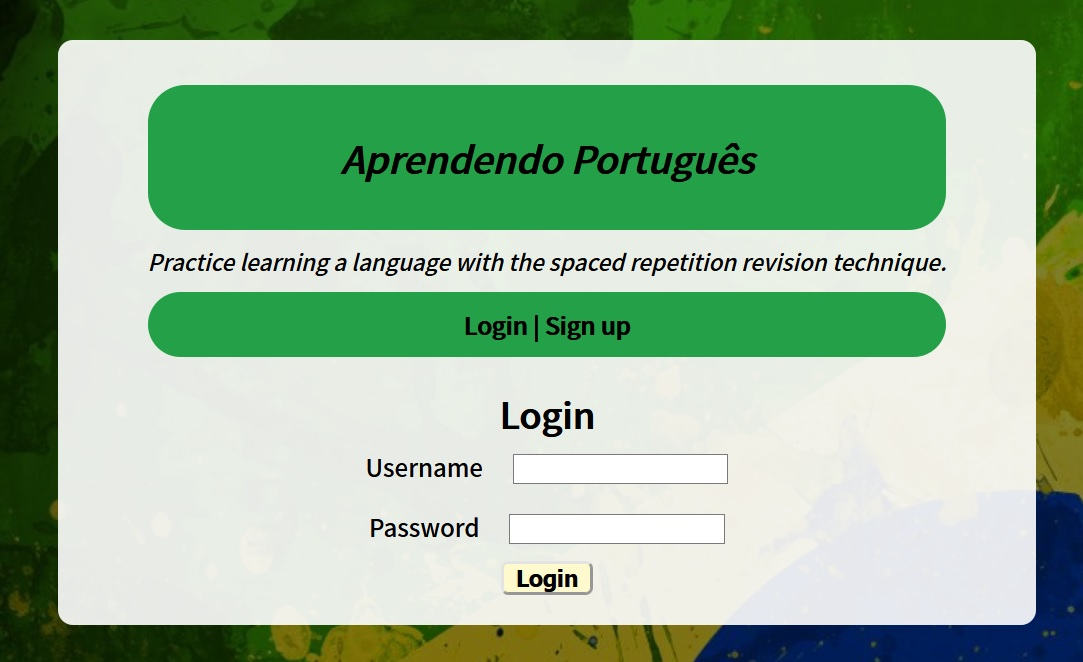
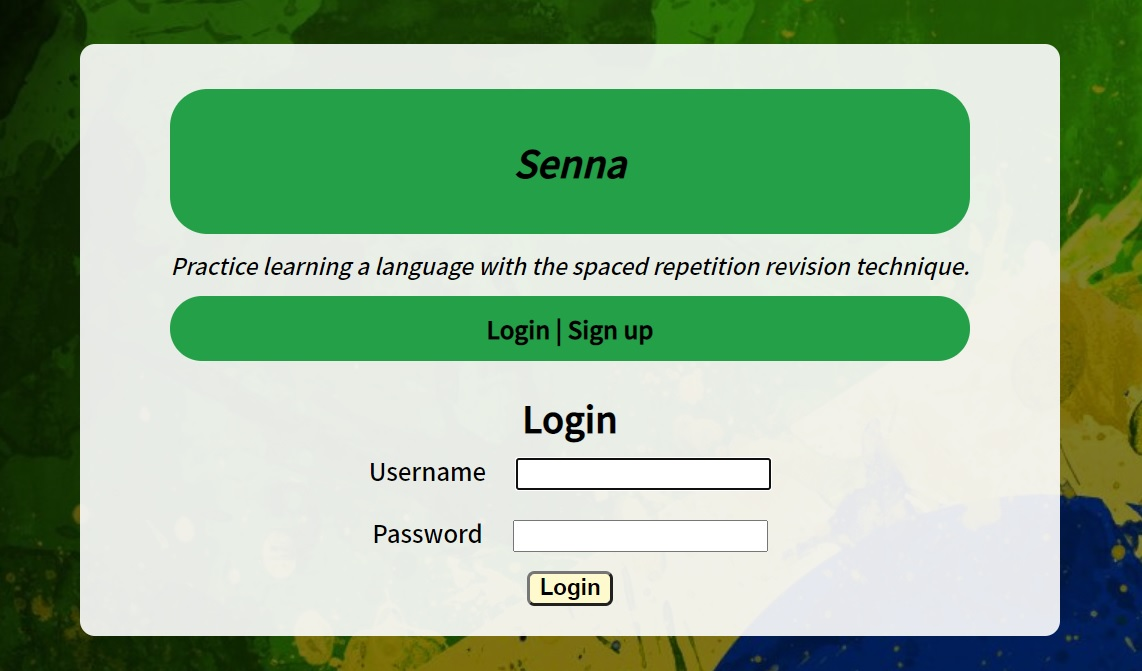
updated pictures

diff --git a/README.md b/README.md
@@ -1,5 +1,5 @@
 #  Senna
-By Renata.
+By Renata D.
 
 ## The Project
 
@@ -9,7 +9,7 @@ _Senna_ is an app for learning Portuguese using the flashcard system and spaced 
 
 * Live: [Senna App](https://thirsty-roentgen-7f7f2e.netlify.app/)
 * Heroku: [API](https://capstone-spaced-repetition.herokuapp.com/)
-* Senna Client: [GitHub](https://github.com/thinkful-ei-panda/spaced-repetition-minh-renata-client)
+* Senna Server: [GitHub](https://github.com/Seraphyne/spaced-repetition-capstone-server)
 
 ## Technology Used
 
@@ -30,54 +30,15 @@ Back-End: _NodeJS | ExpressJS_
 
 ## Screenshots
 
-![Register](/src/components/img/register.jpg "Landing Page | Register.")
-![Login](/src/components/img/login.jpg "Login.")
-![Welcome](/src/components/img/welcome.jpg "Welcome page for logged in user.") 
-![Learning Words](/src/components/img/words.jpg "Displaying a specific word to translate.")
-
-## To setup your local environment
-
-If using user `dunder-mifflin`:
-
-```bash
-mv example.env .env
-createdb -U dunder-mifflin spaced-repetition
-createdb -U dunder-mifflin spaced-repetition-test
-```
-
-If your `dunder-mifflin` user has a password be sure to set it in `.env` for all appropriate fields. Or if using a different user, update appropriately.
-
-```bash
-npm install
-npm run migrate
-env MIGRATION_DB_NAME=spaced-repetition-test npm run migrate
-```
-
-And `npm test` should work at this point
-
-## Configuring PostgreSQL
-
-For tests involving time to run properly, configure your PostgreSQL database to run in the UTC timezone.
-
-1. Locate the `postgresql.conf` file for your Postgres installation.
-   1. E.g. for an OS X, Homebrew install: `/usr/local/var/postgres/postgresql.conf`
-   2. E.g. on Windows, _maybe_: `C:\Program Files\PostgreSQL\11.2\data\postgresql.conf`
-   3. E.g  on Ubuntu 18.04 probably: '/etc/postgresql/10/main/postgresql.conf'
-2. Find the `timezone` line and set it to `UTC`:
-
-```conf
-# - Locale and Formatting -
-
-datestyle = 'iso, mdy'
-#intervalstyle = 'postgres'
-timezone = 'UTC'
-#timezone_abbreviations = 'Default'     # Select the set of available time zone
-```
+![Register](/src/img/register.jpg "Landing Page | Register.")
+![Login](/src/img/login.jpg "Login.")
+![Welcome](/src/img/welcome.jpg "Welcome page for logged in user.") 
+![Learning Words](/src/img/words.jpg "Displaying a specific word to translate.")
 
 ## Scripts
 
-* Start the application `npm start`
-* Start nodemon for the application `npm run dev`
-* Run the tests mode `npm test`
-* Run the migrations up `npm run migrate`
-* Run the migrations down `npm run migrate -- 0`
+* Start the application `npm run` to see all the commands.
+
+# Contact
+
+* Renata D.: [LinkedIn](https://www.linkedin.com/in/renatafd/?locale=en_US)
